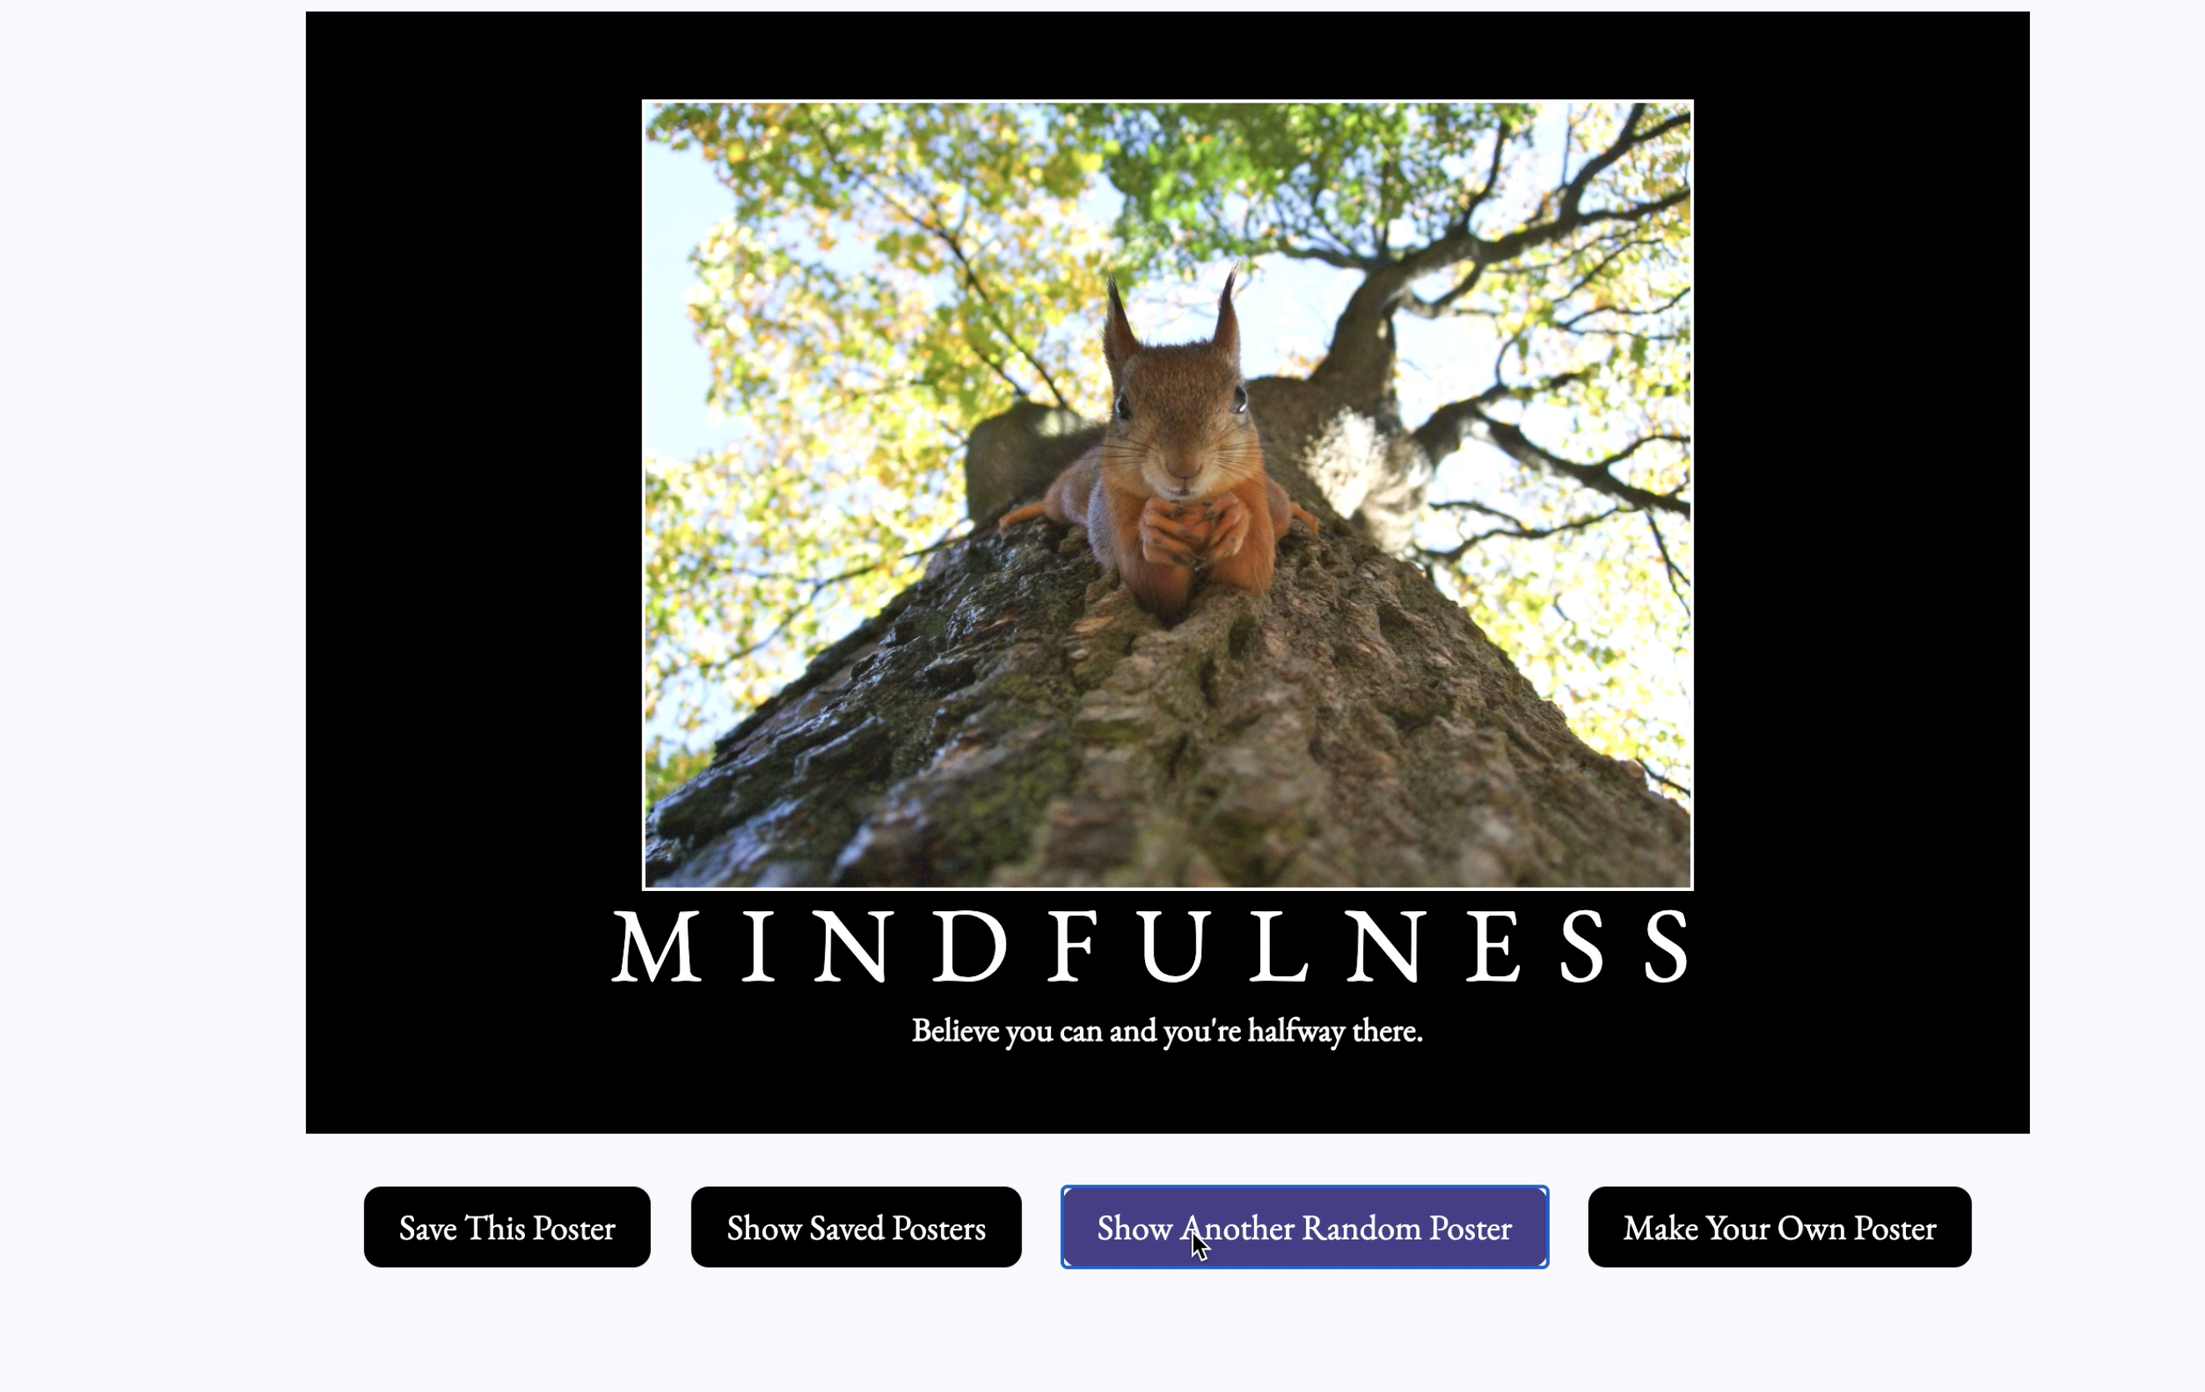
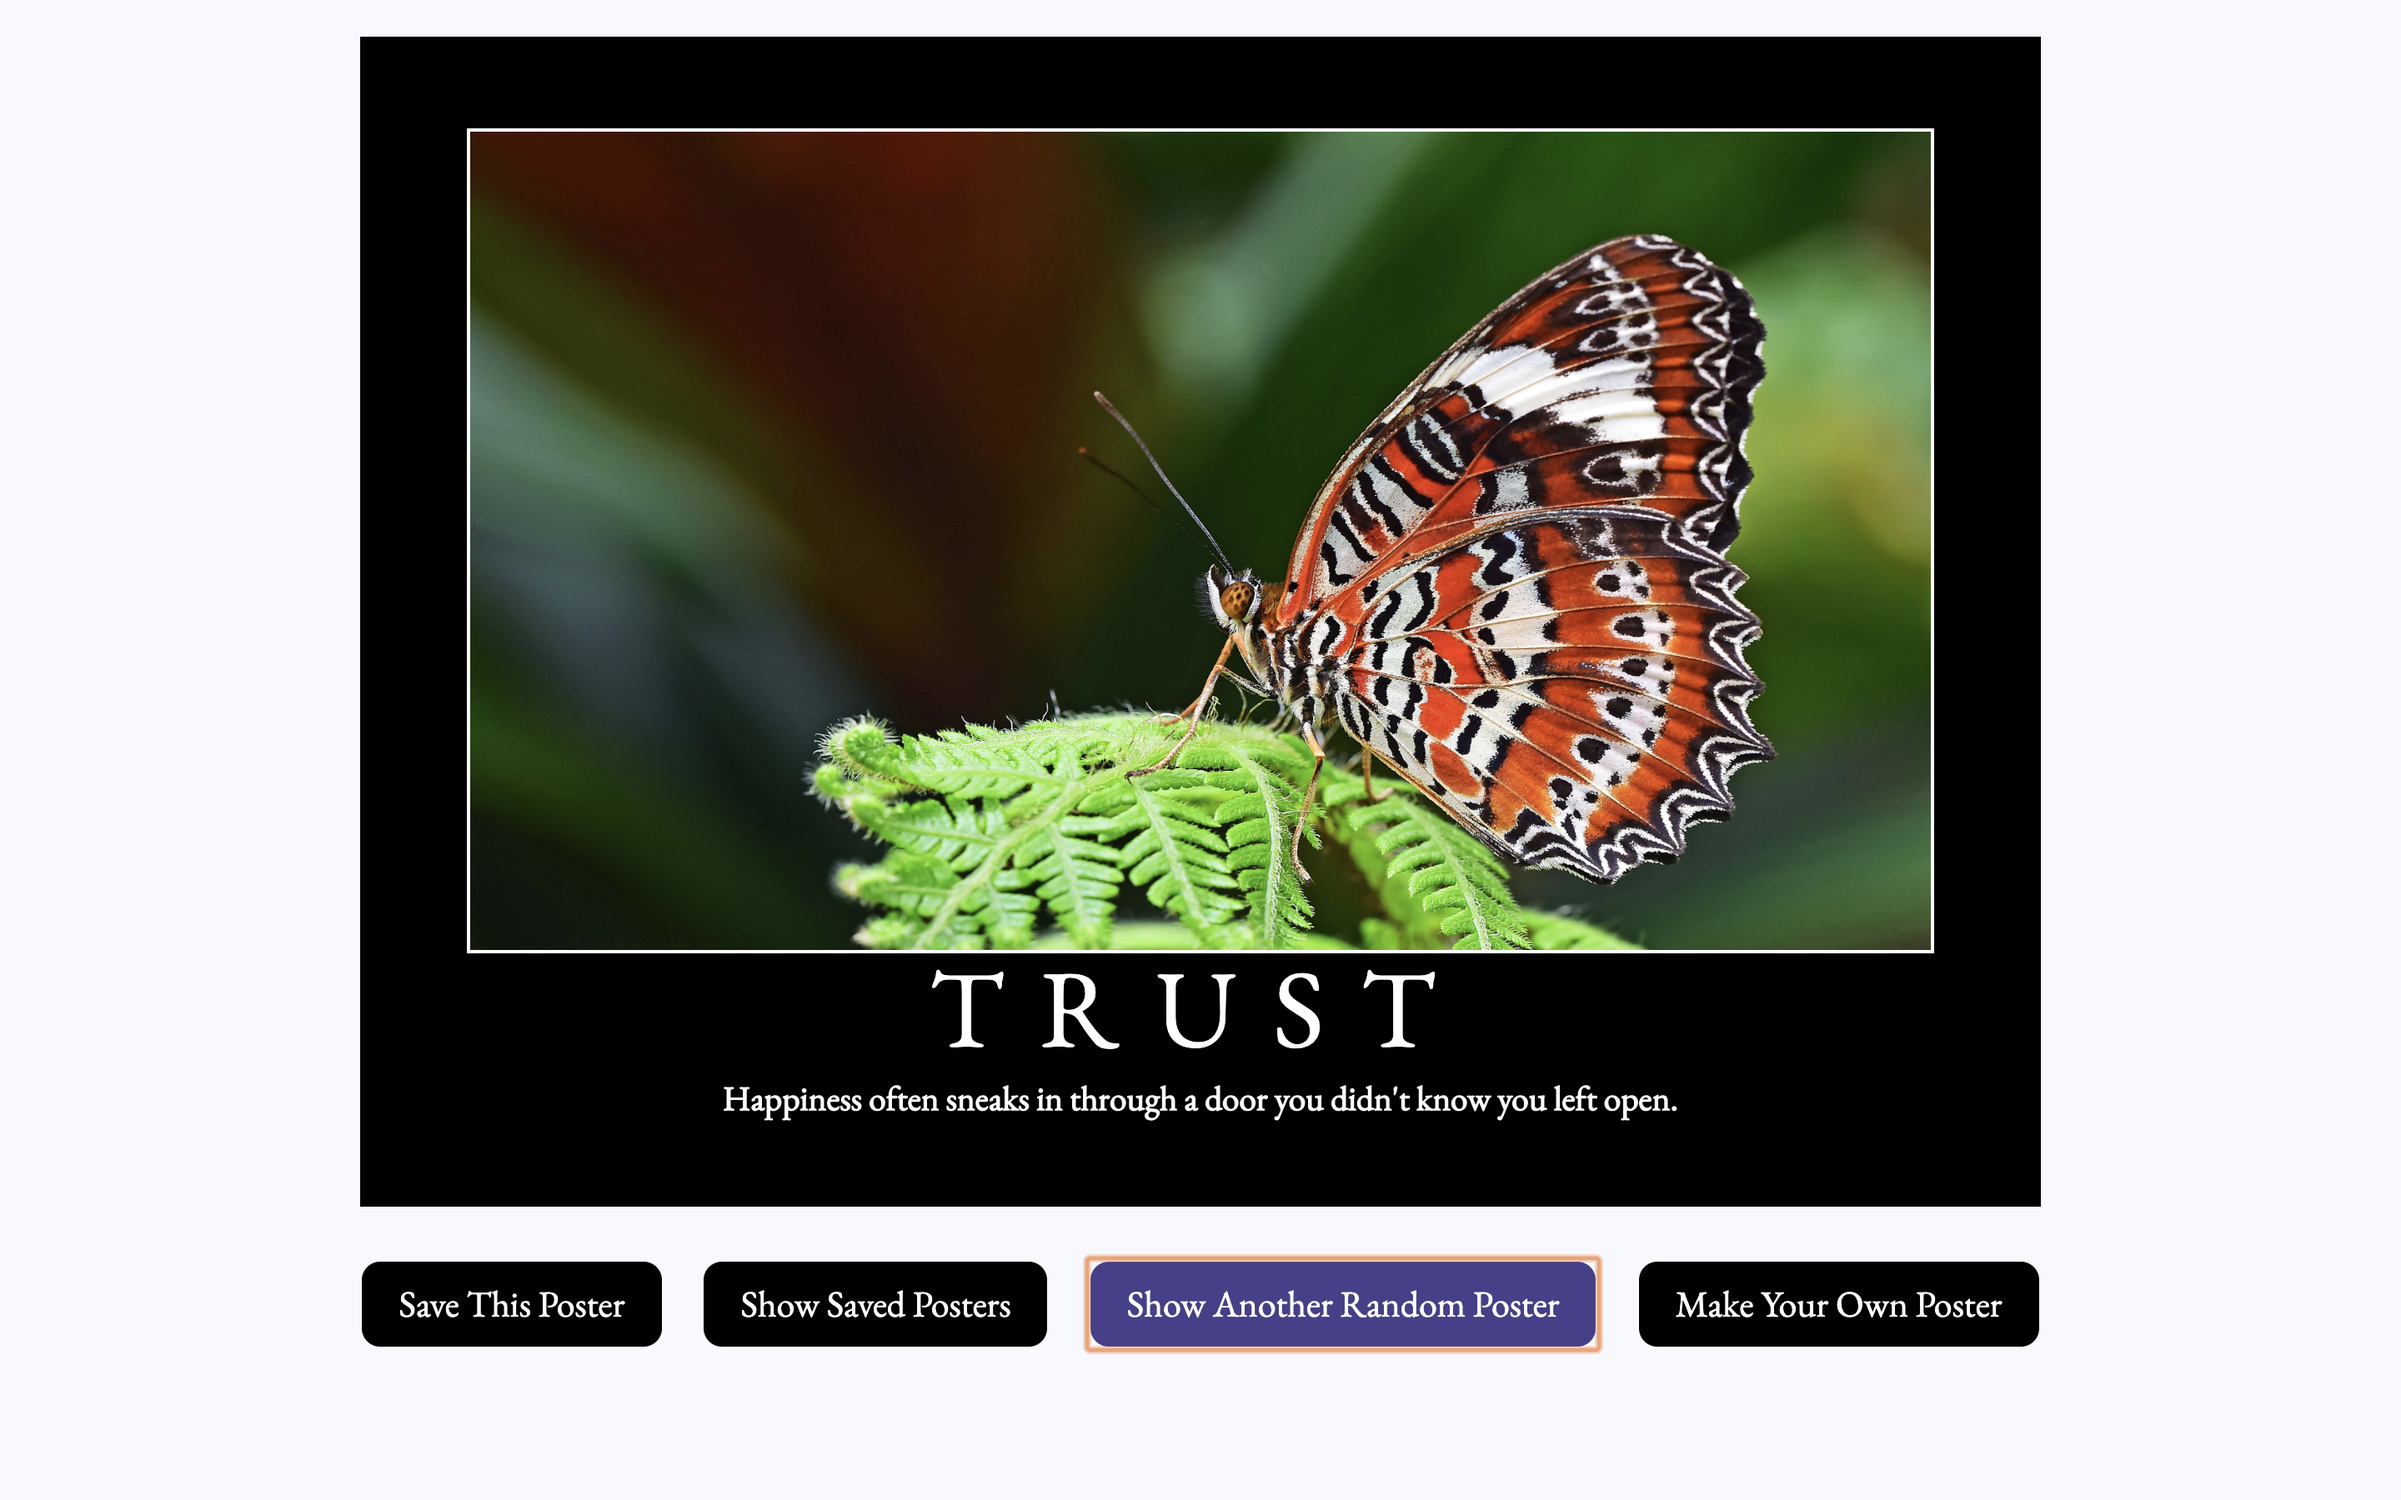
update README

diff --git a/dist/index.html b/dist/index.html
@@ -9,7 +9,7 @@
 <body>
   <section class="main-poster">
     <article class="poster">
-      <img class="poster-img" src="" alt="nothin' to see here">
+      <img class="poster-img" src="../assets/butterfly.jpg" alt="nothin' to see here">
       <h1 class="poster-title">Title</h1>
       <h3 class="poster-quote">Quote</h3>
     </article>

diff --git a/README.md b/README.md
@@ -14,6 +14,7 @@ Link to published site: https://gvemulapalli33.github.io/posters/
 ![screenshot](https://raw.github.com/gvemulapalli33/posters/master/initialScreen.png)
 ![screenshot](https://raw.github.com/gvemulapalli33/posters/master/randomImage.png)
 ![screenshot](https://raw.github.com/gvemulapalli33/posters/master/addPoster.png)
+![screenshot](https://raw.github.com/gvemulapalli33/posters/master/form.png)
 ![screenshot](https://raw.github.com/gvemulapalli33/posters/master/savePoster.png)
 ![screenshot](https://raw.github.com/gvemulapalli33/posters/master/savedPosters.png)
 
